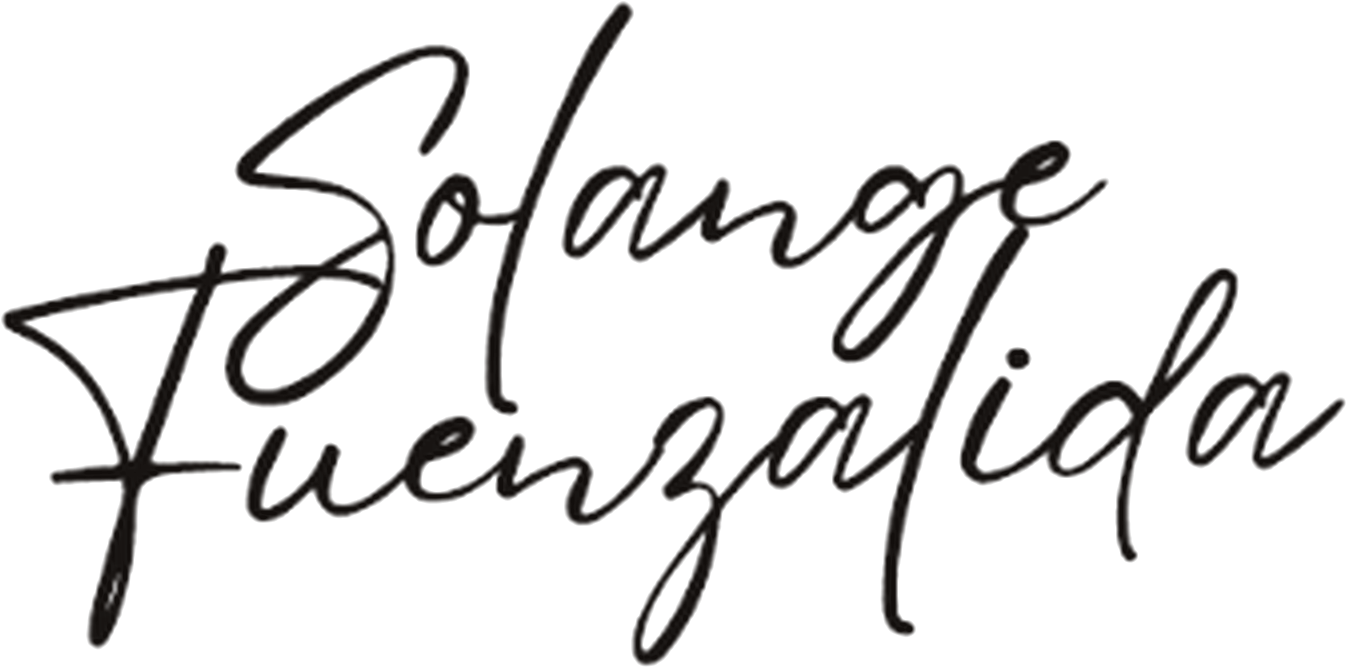
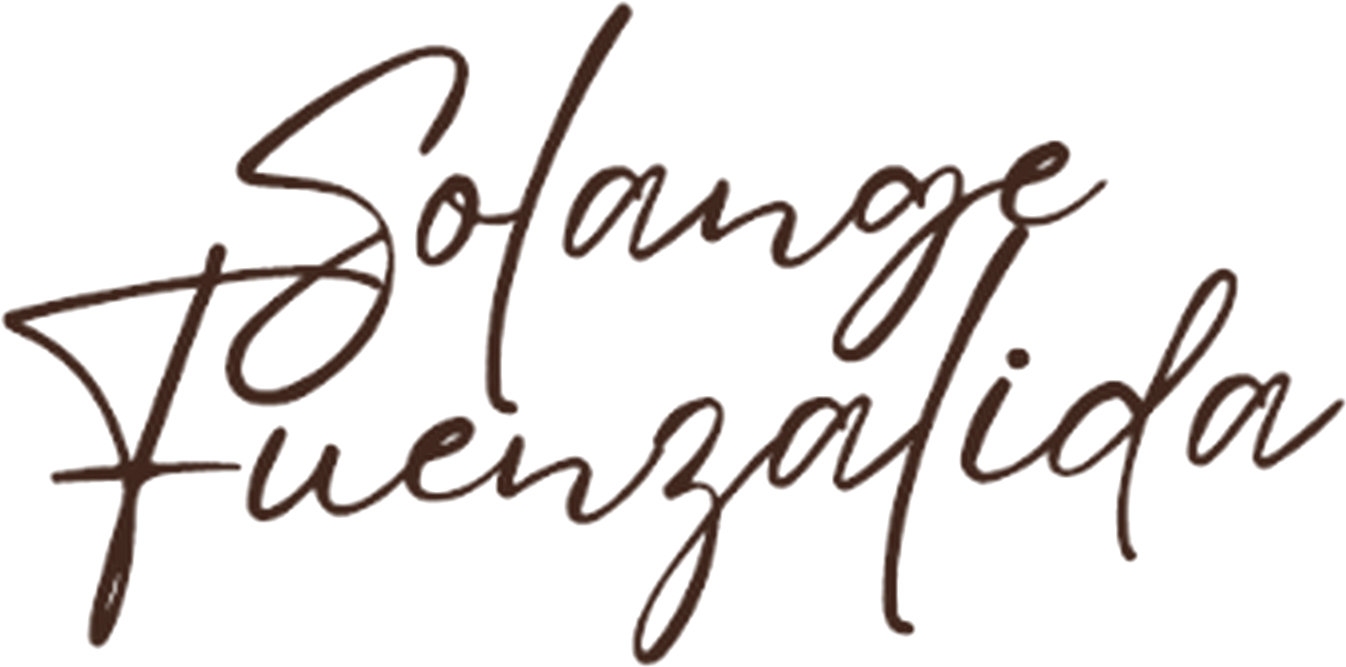
Artista: diseno con linea fluida, hojas, acuarela y foto en sepia calido
Claude-Session: https://claude.ai/code/session_019ApYAaLMooJyqnQYuyETew

diff --git a/index.html b/index.html
@@ -237,13 +237,11 @@
   .artist-role { display: block; font-size: .78rem; letter-spacing: .18em; text-transform: uppercase; color: var(--ink-soft); margin-bottom: 6px; }
   .artist-photo { padding: 0 max(28px, calc((100vw - 1240px) / 2 + 28px)) 0 0; }
   .frame { position: relative; margin: 0; padding: 0; isolation: isolate; transform: rotate(1.8deg); }
-  .frame img { position: relative; z-index: 2; border: 10px solid #FBF9F5; border-radius: 3px; box-shadow: 0 26px 60px rgba(35,24,17,.22); }
-  .frame::before { content: ''; position: absolute; inset: 0; transform: translate(-22px, 16px) rotate(-2.4deg); border: 1.5px solid var(--gold); border-radius: 3px; z-index: 0; }
-  .frame::after { content: ''; position: absolute; inset: 0; transform: translate(-40px, 30px) rotate(-5deg); border: 1px solid rgba(138,63,37,.4); border-radius: 3px; z-index: 0; }
-  .deco { position: absolute; z-index: 1; color: var(--gold); pointer-events: none; }
-  .deco-rays { width: 130px; right: -46px; top: -92px; transform: none; color: var(--clay); opacity: .8; z-index: 3; }
-  .deco-wave { width: 190px; right: -30px; bottom: -58px; z-index: 3; color: var(--clay); opacity: .75; }
-  .deco-spiral { width: 110px; left: -78px; bottom: -86px; z-index: 3; color: var(--gold); }
+  .frame img { position: relative; z-index: 2; border: 10px solid #FBF9F5; border-radius: 2px; box-shadow: 0 22px 50px rgba(60,34,20,.25); }
+  .deco-art.deco-front { z-index: 3; }
+  .deco-art { position: absolute; left: -13%; top: -15.3%; width: 126%; height: 133.3%; z-index: 1; pointer-events: none; overflow: visible; }
+  .artist .dots { background: radial-gradient(circle, #C2703F 2.6px, transparent 3.2px) 0 0 / 14px 6px repeat-x; width: 84px; }
+  .artist .signature img { filter: none; }
   .artist-photo { position: relative; z-index: 0; }
   .artist-photo img { display: block; width: 100%; height: auto; }
   .about h2 { text-wrap: balance; font-size: clamp(1.9rem, 3.4vw, 2.8rem); }
@@ -538,8 +536,7 @@
     .about .split-copy { padding: 48px 28px 64px; }
     .artist { grid-template-columns: 1fr; padding: 24px 0 48px; }
     .artist-photo { order: -1; padding: 40px 44px 44px 40px; }
-    .deco-rays { width: 84px; right: -20px; top: -56px; } .deco-wave { width: 120px; right: -10px; bottom: -40px; } .deco-spiral { width: 70px; left: -40px; bottom: -48px; }
-    .artist-copy { padding: 34px 28px 0; }
+      .artist-copy { padding: 34px 28px 0; }
     .artist .signature img { width: min(340px, 88%); }
 
     .essence { grid-template-columns: 1fr; }
@@ -743,9 +740,27 @@
     </div>
     <div class="artist-photo">
       <figure class="frame">
-        <svg class="deco deco-rays" viewBox="0 0 140 160" aria-hidden="true" fill="none" stroke="currentColor" stroke-width="4" stroke-linecap="round"><path d="M21.7 100.0 Q29.8 69.3 23.9 38.1"/><path d="M37.1 103.0 Q50.9 85.7 51.5 63.5"/><path d="M50.8 110.6 Q75.4 90.5 89.0 61.7"/><path d="M61.5 122.0 Q82.8 116.1 96.3 98.6"/><path d="M68.1 136.2 Q99.8 134.4 127.7 119.1"/><path d="M70.0 151.7 Q90.7 159.5 111.9 153.2"/></svg>
-        <svg class="deco deco-spiral" viewBox="0 0 100 100" aria-hidden="true" fill="none" stroke="currentColor" stroke-width="2.6" stroke-linecap="round" stroke-linejoin="round"><path d="M51.6 50.0 L51.8 50.2 L52.0 50.4 L52.2 50.6 L52.4 50.9 L52.5 51.2 L52.6 51.5 L52.6 51.9 L52.6 52.3 L52.6 52.7 L52.4 53.1 L52.3 53.5 L52.1 53.9 L51.8 54.3 L51.5 54.6 L51.1 55.0 L50.7 55.3 L50.2 55.6 L49.7 55.8 L49.2 56.0 L48.6 56.1 L48.0 56.2 L47.3 56.2 L46.7 56.1 L46.0 56.0 L45.3 55.8 L44.7 55.5 L44.0 55.2 L43.4 54.7 L42.8 54.3 L42.2 53.7 L41.7 53.0 L41.2 52.4 L40.8 51.6 L40.5 50.8 L40.2 49.9 L40.0 49.0 L39.9 48.1 L39.9 47.1 L40.0 46.1 L40.2 45.1 L40.4 44.2 L40.8 43.2 L41.3 42.2 L41.9 41.3 L42.5 40.4 L43.3 39.6 L44.2 38.8 L45.1 38.1 L46.1 37.5 L47.2 37.0 L48.3 36.6 L49.6 36.2 L50.8 36.0 L52.1 35.9 L53.4 35.9 L54.7 36.1 L56.1 36.3 L57.4 36.7 L58.7 37.3 L59.9 37.9 L61.1 38.7 L62.3 39.6 L63.4 40.6 L64.4 41.7 L65.3 42.9 L66.1 44.3 L66.7 45.7 L67.3 47.2 L67.7 48.7 L68.0 50.3 L68.1 51.9 L68.1 53.6 L67.9 55.3 L67.6 57.0 L67.1 58.6 L66.5 60.2 L65.7 61.8 L64.7 63.3 L63.6 64.8 L62.4 66.1 L61.0 67.4 L59.5 68.5 L57.9 69.5 L56.2 70.3 L54.4 71.0 L52.5 71.6 L50.5 72.0 L48.5 72.1 L46.5 72.2 L44.5 72.0 L42.5 71.6 L40.4 71.1 L38.5 70.3 L36.6 69.4 L34.7 68.3 L33.0 67.0 L31.3 65.6 L29.8 63.9 L28.4 62.2 L27.2 60.3 L26.2 58.3 L25.3 56.2 L24.6 54.0 L24.1 51.7 L23.8 49.3 L23.8 47.0 L23.9 44.6 L24.3 42.2 L24.9 39.8 L25.7 37.5 L26.7 35.2 L28.0 33.1 L29.4 31.0 L31.0 29.0 L32.8 27.2 L34.8 25.6 L37.0 24.1 L39.3 22.8 L41.7 21.7 L44.2 20.9 L46.8 20.3 L49.5 19.9 L52.3 19.7 L55.0 19.8 L57.8 20.1 L60.5 20.7 L63.2 21.6 L65.8 22.7 L68.3 24.0 L70.7 25.6 L73.0 27.4 L75.1 29.4 L77.1 31.6 L78.8 34.0 L80.4 36.6 L81.7 39.3 L82.7 42.1 L83.5 45.1 L84.1 48.1 L84.3 51.2 L84.3 54.3 L84.0 57.4 L83.5 60.5 L82.6 63.5 L81.5 66.5 L80.0 69.4 L78.4 72.2 L76.4 74.8 L74.2 77.2 L71.8 79.5 L69.2 81.5 L66.4 83.4 L63.4 84.9 L60.3 86.2 L57.0 87.2 L53.7 87.9 L50.3 88.3 L46.8 88.4 L43.3 88.2 L39.9 87.7 L36.4 86.9 L33.1 85.7 L29.8 84.2 L26.7 82.5 L23.7 80.4 L20.9 78.1 L18.3 75.5 L16.0 72.7 L13.9 69.7 L12.0 66.4 L10.5 63.0 L9.2 59.5 L8.3 55.8 L7.7 52.0 L7.5 48.2 L7.6 44.4 L8.0 40.5 L8.8 36.7 L10.0 33.0 L11.5 29.3 L13.3 25.8 L15.4 22.5 L17.9 19.3 L20.6 16.4 L23.6 13.7 L26.8 11.3 L30.3 9.1 L34.0 7.3 L37.8 5.8 L41.8 4.7 L45.9 3.9 L50.1 3.5 L54.3 3.4 L58.5 3.8 L62.7 4.5 L66.8 5.6 L70.8 7.1 L74.7 8.9 L78.4 11.1"/></svg>
-        <svg class="deco deco-wave" viewBox="0 0 220 60" aria-hidden="true" fill="none" stroke="currentColor" stroke-width="2" stroke-linecap="round"><path d="M4 40 C30 6 54 6 80 30 S130 54 160 26 S200 8 216 20"/><path d="M20 52 C46 24 66 24 90 44 S136 58 166 38" opacity=".55"/></svg>
+        <svg class="deco-art deco-back" viewBox="0 0 1260 960" aria-hidden="true" focusable="false"><defs>
+            <linearGradient id="lg1" x1="0" y1="0" x2="1" y2="1"><stop offset="0" stop-color="#D98A55"/><stop offset="1" stop-color="#B8643C"/></linearGradient>
+            <linearGradient id="lg2" x1="0" y1="0" x2="1" y2="1"><stop offset="0" stop-color="#E7B07F"/><stop offset="1" stop-color="#C47A48"/></linearGradient>
+            <linearGradient id="ln" x1="0" y1="0" x2="1" y2="0"><stop offset="0" stop-color="#B8643C"/><stop offset="1" stop-color="#8A3F25"/></linearGradient>
+            <filter id="soft" x="-20%" y="-20%" width="140%" height="140%"><feGaussianBlur stdDeviation="7"/></filter>
+          </defs><g fill="#E9C6A0" opacity=".55" filter="url(#soft)">
+            <path d="M820 100 C960 10 1190 40 1225 140 C1245 230 1170 262 1090 230 C1000 200 880 190 820 100Z"/>
+            <path d="M260 905 C470 850 760 945 1050 892 C1170 862 1215 810 1205 760 L1160 850 C1010 940 600 965 260 905Z"/>
+          </g></svg>
+        <svg class="deco-art deco-front" viewBox="0 0 1260 960" aria-hidden="true" focusable="false">
+          
+          
+          <g fill="none" stroke="url(#ln)" stroke-width="2.4" stroke-linecap="round">
+            <path d="M126 440 C62 340 70 200 150 132 C262 44 520 48 760 76 C960 98 1118 66 1186 132"/>
+            <path d="M1192 470 C1262 560 1240 700 1128 800 C1004 900 760 884 560 902 C400 916 262 905 205 868"/>
+            <path d="M118 300 C100 232 118 140 205 52" stroke-width="2"/>
+            <path d="M147.8 797.0 L147.4 797.0 L146.9 796.9 L146.5 796.7 L146.0 796.4 L145.6 796.1 L145.2 795.7 L144.9 795.2 L144.6 794.7 L144.4 794.1 L144.2 793.5 L144.1 792.8 L144.1 792.1 L144.1 791.3 L144.3 790.6 L144.6 789.8 L144.9 789.1 L145.3 788.4 L145.9 787.7 L146.5 787.0 L147.2 786.4 L148.0 785.9 L148.9 785.5 L149.9 785.1 L150.9 784.8 L152.0 784.7 L153.1 784.6 L154.2 784.7 L155.3 784.9 L156.5 785.3 L157.6 785.7 L158.7 786.3 L159.8 787.0 L160.8 787.9 L161.7 788.9 L162.5 790.0 L163.3 791.1 L163.9 792.4 L164.4 793.8 L164.7 795.2 L164.9 796.7 L164.9 798.3 L164.8 799.9 L164.5 801.4 L164.1 803.0 L163.5 804.5 L162.7 806.0 L161.7 807.5 L160.6 808.8 L159.3 810.1 L157.9 811.2 L156.3 812.2 L154.7 813.0 L152.9 813.7 L151.0 814.2 L149.1 814.5 L147.1 814.6 L145.1 814.5 L143.1 814.2 L141.1 813.7 L139.1 812.9 L137.2 812.0 L135.3 810.9 L133.6 809.5 L132.0 808.0 L130.5 806.3 L129.2 804.4 L128.1 802.4 L127.2 800.2 L126.5 797.9 L126.0 795.6 L125.8 793.2 L125.8 790.7 L126.0 788.2 L126.6 785.8 L127.3 783.3 L128.4 781.0 L129.6 778.7 L131.1 776.5 L132.9 774.5 L134.9 772.6 L137.0 771.0 L139.4 769.5 L141.9 768.3 L144.5 767.3 L147.3 766.6 L150.1 766.2 L153.0 766.1 L156.0 766.2 L158.9 766.7 L161.8 767.4 L164.6 768.5 L167.4 769.8 L170.0 771.5 L172.5 773.4 L174.8 775.5 L176.8 777.9 L178.7 780.6 L180.2 783.4 L181.5 786.4 L182.5 789.5 L183.2 792.8 L183.6 796.1 L183.6 799.5 L183.3 802.9 L182.6 806.3 L181.6 809.6 L180.2 812.9 L178.5 816.0 L176.5 818.9 L174.2 821.7 L171.6 824.2 L168.7 826.4 L165.6 828.4 L162.3 830.1 L158.8 831.5 L155.2 832.4 L151.4 833.1 L147.6 833.3 L143.7 833.2 L139.9 832.7 L136.1 831.7 L132.3 830.4 L128.7 828.7 L125.3 826.7 L122.0 824.3 L119.0 821.5 L116.3 818.5 L113.8 815.1 L111.7 811.5 L110.0 807.7 L108.6 803.7 L107.6 799.6 L107.1 795.3 L107.0 791.0 L107.3 786.7 L108.1 782.4 L109.2 778.2 L110.9 774.0 L112.9 770.1 L115.4 766.3 L118.2 762.8 L121.4 759.5 L124.9 756.6 L128.7 754.0 L132.8 751.8 L137.1 750.0 L141.6 748.7 L146.3 747.7 L151.0 747.3 L155.8 747.4 L160.6 747.9 L165.3 748.9 L170.0 750.4 L174.5 752.3 L178.8 754.7 L182.9 757.6 L186.7 760.9 L190.1 764.5 L193.2 768.5 L195.9 772.8 L198.2 777.4 L200.0 782.3 L201.3 787.3 L202.1 792.4 L202.4 797.6 L202.2 802.9 L201.4 808.2 L200.2 813.3 L198.3 818.4 L196.0 823.2 L193.2 827.9 L189.9 832.2 L186.2 836.3 L182.1 839.9 L177.6 843.2 L172.8 845.9 L167.7 848.2 L162.3 850.0 L156.8 851.3 L151.2 852.0 L145.4 852.1 L139.7 851.7 L134.0 850.7 L128.4 849.1 L123.0 846.9 L117.8 844.2 L112.9 841.0 L108.2 837.2 L104.0 833.1 L100.2 828.4 L96.8 823.4 L94.0 818.1 L91.7 812.5 L89.9 806.6 L88.8 800.6 L88.2 794.5 L88.3 788.3 L89.0 782.1 L90.3 775.9 L92.2 770.0 L94.7 764.2 L97.8 758.6 L101.5 753.4 L105.7 748.6 L110.4 744.1 L115.5 740.2 L121.0 736.7 L126.8 733.8 L133.0 731.5 L139.4 729.9 L145.9 728.8 L152.5 728.4 L159.2 728.7 L165.8 729.7 L172.4 731.3 L178.8 733.6 L184.9 736.5 L190.7 740.1 L196.2 744.2 L201.3 748.8 L205.9 754.0 L210.0 759.7 L213.5 765.7 L216.3 772.1 L218.6 778.7 L220.2 785.6 L221.1 792.7 L221.2 799.8 L220.7 806.9" stroke-width="2.6"/>
+          </g>
+          <g transform="translate(122 262) rotate(-150) scale(0.75)"><path d="M0 0 C 16 -22 52 -22 74 0 C 52 22 16 22 0 0Z" fill="url(#lg1)"/><path d="M4 0 L 66 0" stroke="#fff" stroke-opacity=".35" stroke-width="1.4"/></g><g transform="translate(118 214) rotate(-128) scale(0.85)"><path d="M0 0 C 16 -22 52 -22 74 0 C 52 22 16 22 0 0Z" fill="url(#lg2)"/><path d="M4 0 L 66 0" stroke="#fff" stroke-opacity=".35" stroke-width="1.4"/></g><g transform="translate(128 150) rotate(-100) scale(0.9)"><path d="M0 0 C 16 -22 52 -22 74 0 C 52 22 16 22 0 0Z" fill="url(#lg1)"/><path d="M4 0 L 66 0" stroke="#fff" stroke-opacity=".35" stroke-width="1.4"/></g><g transform="translate(160 96) rotate(-70) scale(0.95)"><path d="M0 0 C 16 -22 52 -22 74 0 C 52 22 16 22 0 0Z" fill="url(#lg2)"/><path d="M4 0 L 66 0" stroke="#fff" stroke-opacity=".35" stroke-width="1.4"/></g><g transform="translate(205 52) rotate(-48) scale(0.8)"><path d="M0 0 C 16 -22 52 -22 74 0 C 52 22 16 22 0 0Z" fill="url(#lg1)"/><path d="M4 0 L 66 0" stroke="#fff" stroke-opacity=".35" stroke-width="1.4"/></g><g transform="translate(110 300) rotate(-170) scale(0.6)"><path d="M0 0 C 16 -22 52 -22 74 0 C 52 22 16 22 0 0Z" fill="url(#lg2)"/><path d="M4 0 L 66 0" stroke="#fff" stroke-opacity=".35" stroke-width="1.4"/></g>
+          <circle cx="112" cy="360" r="5" fill="#B8643C" opacity="0.9"/><circle cx="126" cy="388" r="3.5" fill="#B8643C" opacity="0.8"/><circle cx="138" cy="414" r="6" fill="#B8643C" opacity="0.85"/><circle cx="150" cy="440" r="3" fill="#B8643C" opacity="0.7"/><circle cx="1228" cy="640" r="4" fill="#B8643C" opacity="0.8"/><circle cx="1240" cy="668" r="6" fill="#B8643C" opacity="0.85"/><circle cx="1232" cy="700" r="3.5" fill="#B8643C" opacity="0.7"/><circle cx="300" cy="905" r="4" fill="#B8643C" opacity="0.8"/><circle cx="330" cy="920" r="3" fill="#B8643C" opacity="0.7"/><circle cx="268" cy="925" r="5" fill="#B8643C" opacity="0.8"/>
+        </svg>
         <img src="img/solange.webp" alt="Solange Fuenzalida modelando una pieza de cerámica en el taller" loading="lazy">
       </figure>
     </div>
